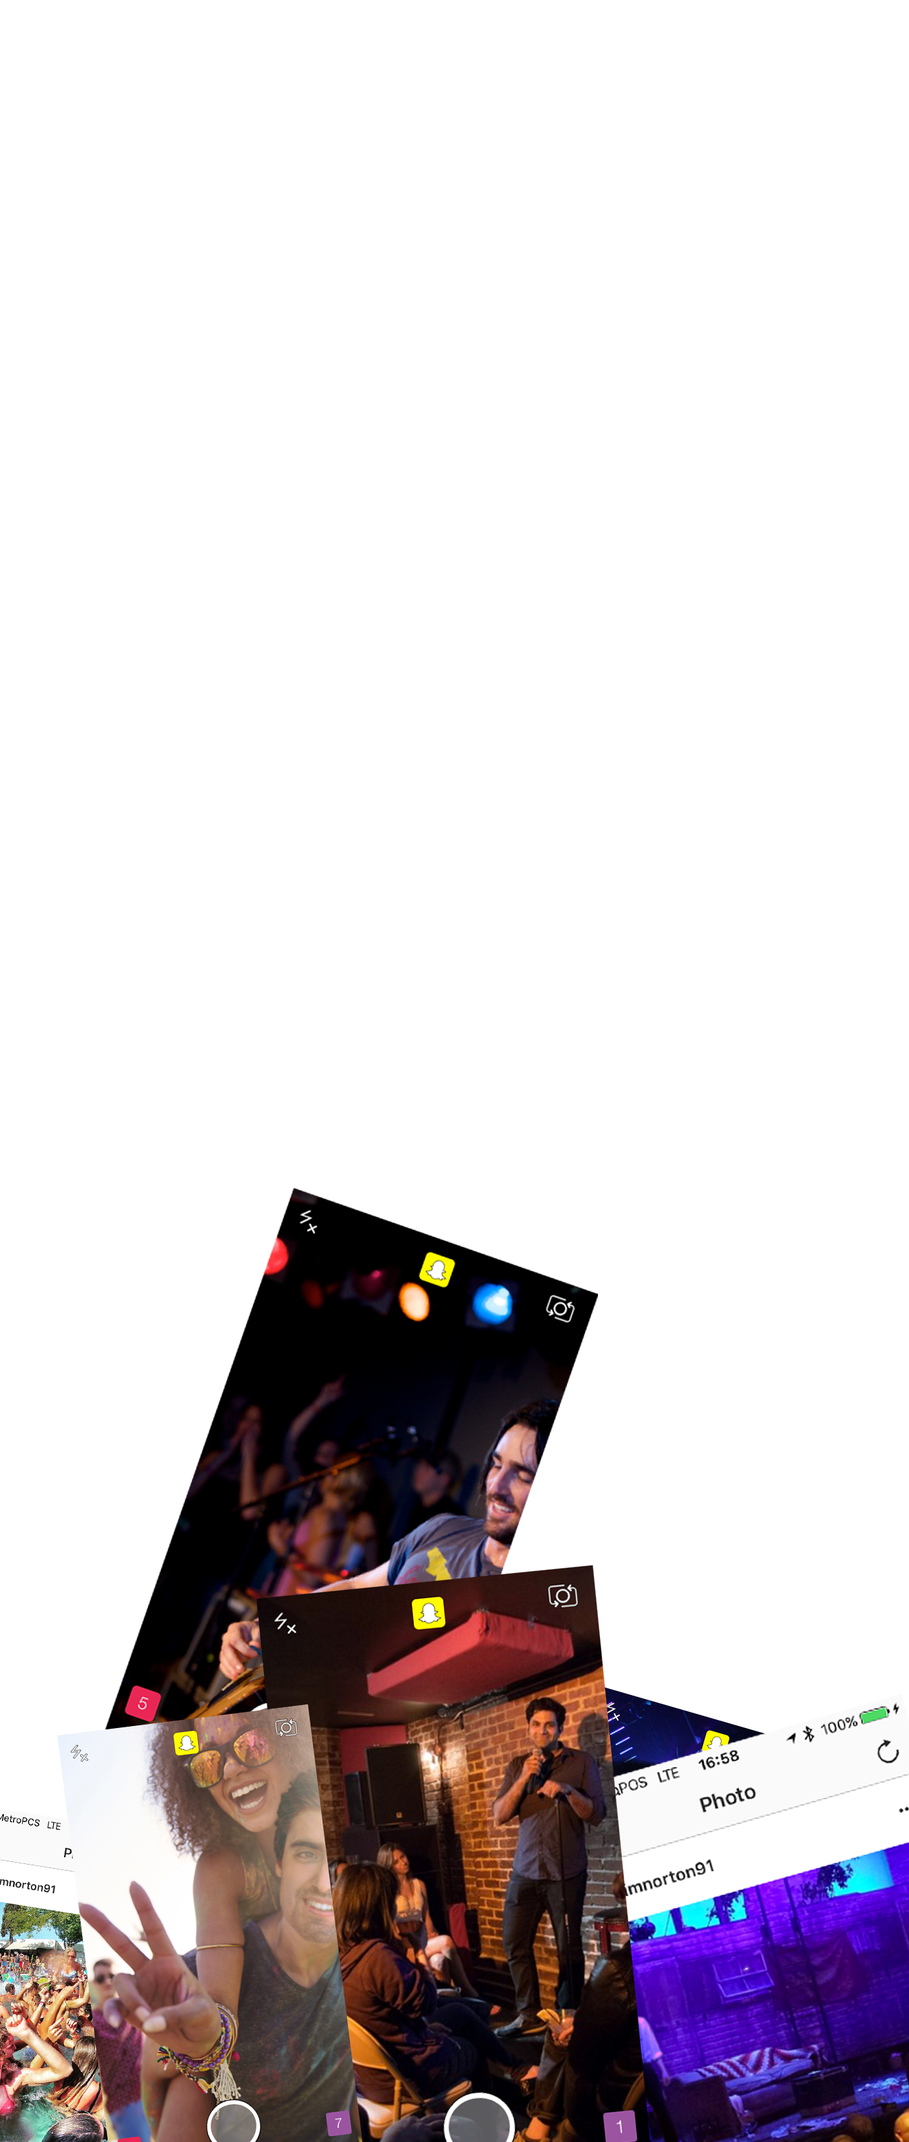
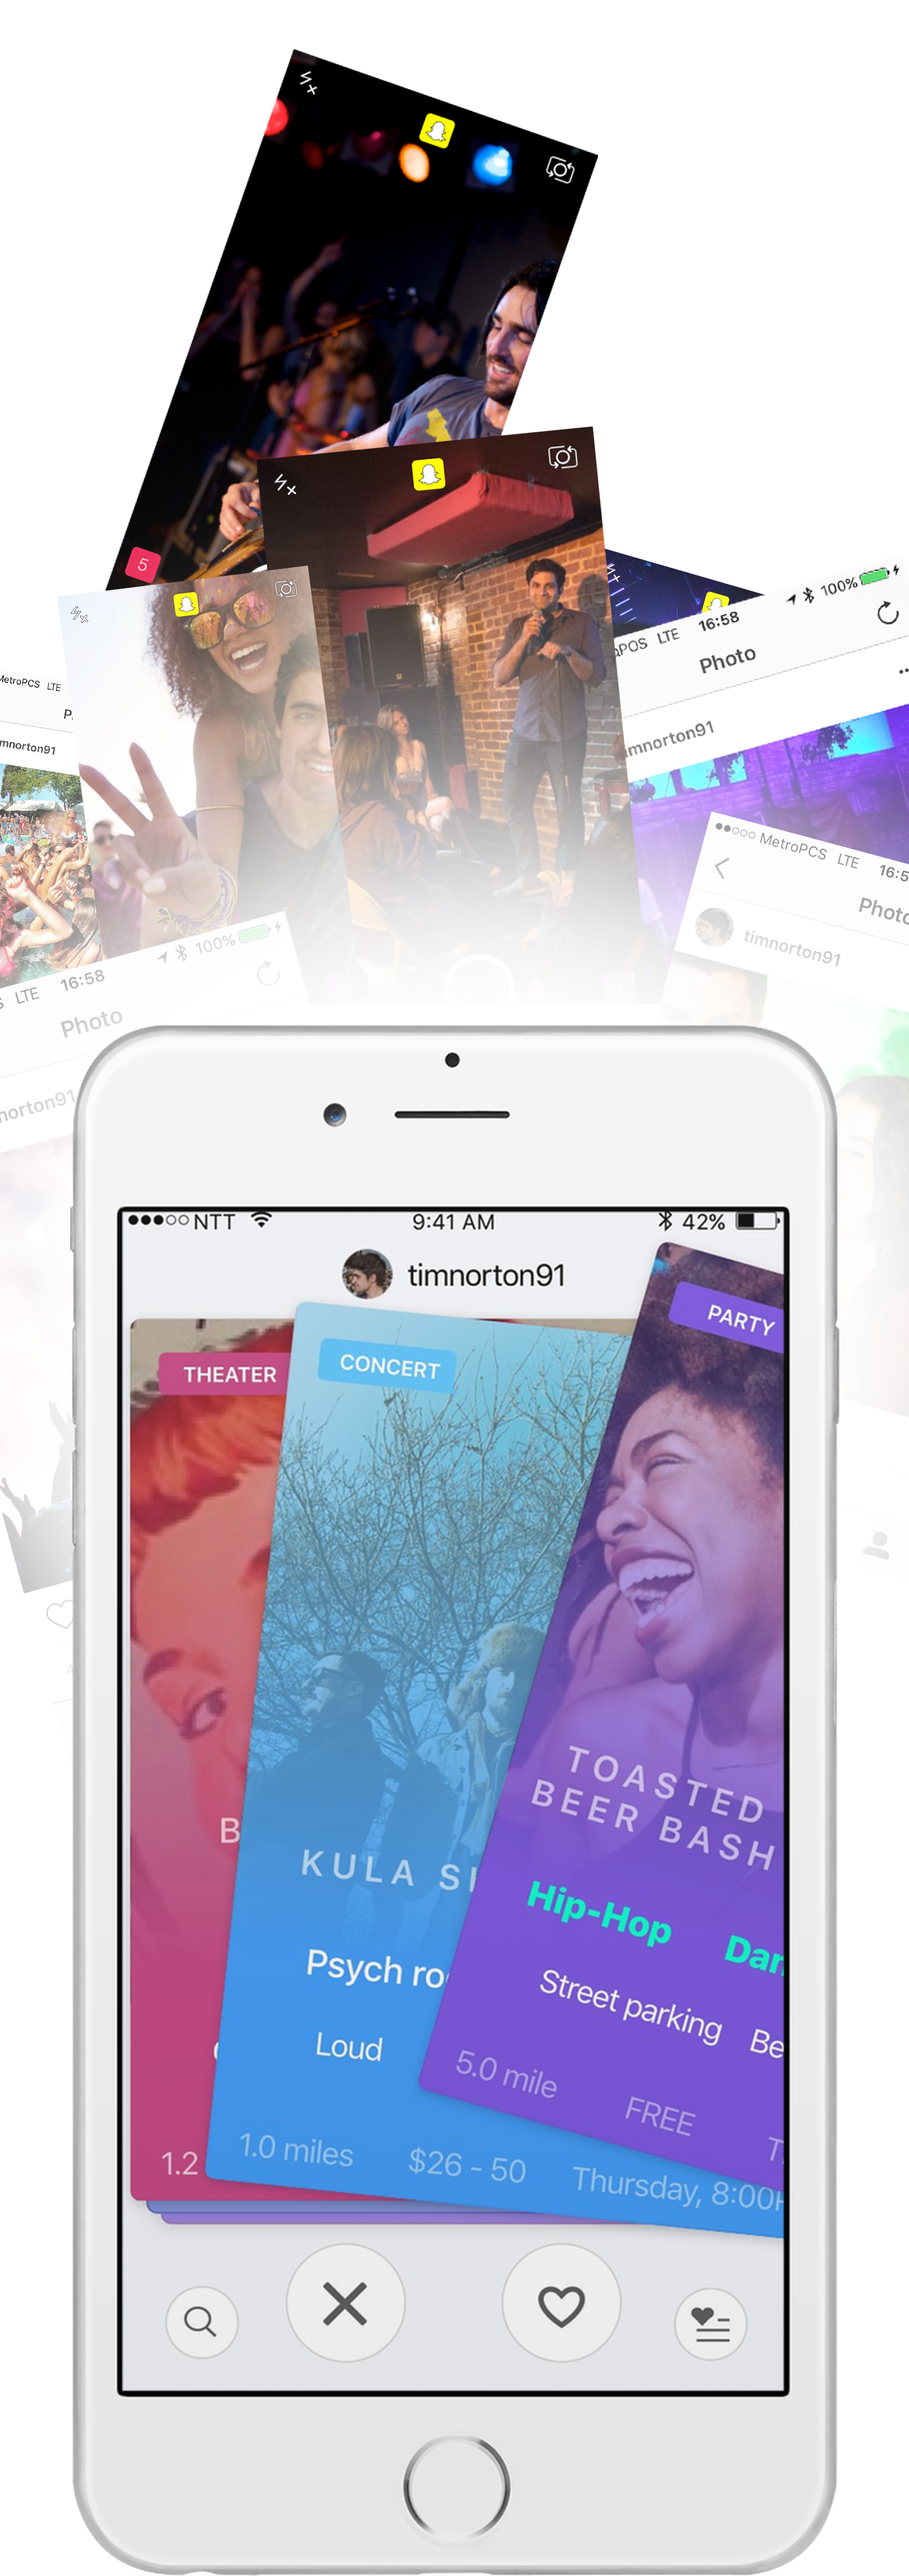
total redesign

diff --git a/css/main.css b/css/main.css
@@ -269,21 +269,6 @@ label {
   top: 0;
 }
 
-.overlay1 {
-  position: absolute;
-  width: 100%;
-  min-height: 100%;
-  background: linear-gradient(to right, rgb(255, 255, 255), rgb(255, 255, 255));
-  top: 0;
-}
-
-.overlay2 {
-  position: absolute;
-  width: 100%;
-  min-height: 100%;
-  background: linear-gradient(to right, rgba(225, 255, 2, 0.8), rgba(225, 255, 2, 0.5));
-  top: 0;
-}
 
 .logo,
 .social { text-align: center; }
@@ -897,6 +882,19 @@ textarea[class="form-control"] { padding: 0.75em 12px; }
    
 @media (max-width: 768px) {
 
+body {
+  font-size: 16px;
+}
+p {
+  font-size: 120%;
+  font-weight: 200;
+}
+
+h1 {
+  font-size: 250%;
+  font-weight: 300;
+}
+
 .hero-unit { padding: 4.5em 0; }
 
 .logo { text-align: justify; }
@@ -950,13 +948,7 @@ ul.countdown li p { font-size: 24px; }
   margin-right: auto;
   width: 50%;
 }
-.hero-unit h1 {
-  font-size: 200%;
-}
 
-.counter1 h2 {
-  font-size: 200%;
-}
 
 .counter1 img {
   width: 130%;
@@ -967,19 +959,14 @@ ul.countdown li p { font-size: 24px; }
   display: none;
 }
 
-.mobile5 {
-  height: 100px;
-  background: center center no-repeat;
-  background: url("../img/mobile_5.png");
-  -webkit-background-size: cover;
-  -moz-background-size: cover;
-  -o-background-size: cover;
-  background-size: cover;
+.mobile5 img {
+  display: block;
+  margin-left: auto;
+  margin-right: auto;
+  width: 100%;
 }
 
-.features h1 {
-  font-size: 230%;
-}
+
 
   #angryd {
     position: absolute;
@@ -1023,6 +1010,11 @@ ul.countdown li p { font-size: 24px; }
   .contact h2 {font-size: 1%}
   .contact h1 {font-size: 1%}
   .contact h3 {font-size: 1%}
+
+  #mobilemob {
+    margin-bottom: 10%;
+    margin-top: 10%;
+  }
 
   #many {
     display: block;
@@ -1072,26 +1064,16 @@ ul.countdown li p { font-size: 24px; }
   }
 
 
-  .overlay1 {
-
-    background: url("../img/mobile_snaps.png") no-repeat center;
-    -webkit-background-size: cover;
-    -moz-background-size: cover;
-    -o-background-size: cover;
-    background-size: cover;
-
-    height: 800px;
-  }
-
 
   .mobile-phone {
-    background: url("../img/mobi.png") bottom center no-repeat;
-    -webkit-background-size: cover;
-    -moz-background-size: cover;
-    -o-background-size: cover;
-    height: 1000px;
-    background-size: 100%;
-    background-color: #f1f2f5;
+    background-color: rgba(255, 255, 255, 0);
+  }
+
+  .mobile-phone img {
+    display: block;
+    margin-left: auto;
+    margin-right: auto;
+    width: 100%;
   }
 
   .ruby {
@@ -1099,24 +1081,13 @@ ul.countdown li p { font-size: 24px; }
     background-size: 10%;
   }
 
-  .counter h1 {
-    font-size: 300%;
-    color: #000000;
-  }
-  .counter p {
-    font-size: 150%;
-    margin-bottom: 1%;
-    font-weight: 300;
+  .counter {
+    display: none;
   }
 
-  .counter h2 {text-shadow: 0px 0px 8px #000000;}
 
-  .counter img {
-    position: absolute;
-    z-index: -1;
-  }
   .cta p {
-    font-size: 150%;
+
     font-weight: 200;
     margin-bottom: 0%;
     font-family: 'Mukta Vaani', sans-serif;
@@ -1127,8 +1098,7 @@ ul.countdown li p { font-size: 24px; }
   }
 
   .ruby h1 {
-    font-weight: 800;
-    font-size: 200%;
+    font-weight: 300;
     font-family: 'Mukta Vaani', sans-serif;
     color: #000000;
   }
@@ -1227,6 +1197,19 @@ ul.countdown li p { font-size: 24px; }
 
 @media (max-width: 320px) {
 
+  body {
+    font-size: 16px;
+  }
+  p {
+    font-size: 120%;
+    font-weight: 200;
+  }
+
+  h1 {
+    font-size: 250%;
+    font-weight: 300;
+  }
+
   .hero-unit { padding: 4.5em 0; }
 
   .logo { text-align: justify; }
@@ -1280,13 +1263,7 @@ ul.countdown li p { font-size: 24px; }
     margin-right: auto;
     width: 50%;
   }
-  .hero-unit h1 {
-    font-size: 200%;
-  }
 
-  .counter1 h2 {
-    font-size: 200%;
-  }
 
   .counter1 img {
     width: 130%;
@@ -1297,19 +1274,14 @@ ul.countdown li p { font-size: 24px; }
     display: none;
   }
 
-  .mobile5 {
-    height: 100px;
-    background: center center no-repeat;
-    background: url("../img/mobile_5.png");
-    -webkit-background-size: cover;
-    -moz-background-size: cover;
-    -o-background-size: cover;
-    background-size: cover;
+  .mobile5 img {
+    display: block;
+    margin-left: auto;
+    margin-right: auto;
+    width: 100%;
   }
 
-  .features h1 {
-    font-size: 230%;
-  }
+
 
   #angryd {
     position: absolute;
@@ -1353,6 +1325,11 @@ ul.countdown li p { font-size: 24px; }
   .contact h2 {font-size: 1%}
   .contact h1 {font-size: 1%}
   .contact h3 {font-size: 1%}
+
+  #mobilemob {
+    margin-bottom: 10%;
+    margin-top: 10%;
+  }
 
   #many {
     display: block;
@@ -1402,26 +1379,16 @@ ul.countdown li p { font-size: 24px; }
   }
 
 
-  .overlay1 {
-
-    background: url("../img/mobile_snaps.png") no-repeat center;
-    -webkit-background-size: cover;
-    -moz-background-size: cover;
-    -o-background-size: cover;
-    background-size: cover;
-
-    height: 800px;
-  }
-
 
   .mobile-phone {
-    background: url("../img/mobi.png") bottom center no-repeat;
-    -webkit-background-size: cover;
-    -moz-background-size: cover;
-    -o-background-size: cover;
-    height: 1000px;
-    background-size: 100%;
-    background-color: #f1f2f5;
+    background-color: rgba(255, 255, 255, 0);
+  }
+
+  .mobile-phone img {
+    display: block;
+    margin-left: auto;
+    margin-right: auto;
+    width: 100%;
   }
 
   .ruby {
@@ -1429,24 +1396,13 @@ ul.countdown li p { font-size: 24px; }
     background-size: 10%;
   }
 
-  .counter h1 {
-    font-size: 300%;
-    color: #000000;
-  }
-  .counter p {
-    font-size: 100%;
-    margin-bottom: 1%;
-    font-weight: 300;
+  .counter {
+    display: none;
   }
 
-  .counter h2 {text-shadow: 0px 0px 8px #000000;}
 
-  .counter img {
-    position: absolute;
-    z-index: -1;
-  }
   .cta p {
-    font-size: 150%;
+
     font-weight: 200;
     margin-bottom: 0%;
     font-family: 'Mukta Vaani', sans-serif;
@@ -1457,8 +1413,7 @@ ul.countdown li p { font-size: 24px; }
   }
 
   .ruby h1 {
-    font-weight: 800;
-    font-size: 200%;
+    font-weight: 300;
     font-family: 'Mukta Vaani', sans-serif;
     color: #000000;
   }
@@ -1466,4 +1421,3 @@ ul.countdown li p { font-size: 24px; }
   .ss div[class^="col-"]:nth-child(2) { padding-bottom: 0; }
 }
 
-}

diff --git a/index.html b/index.html
@@ -60,7 +60,7 @@ mixpanel.init("9967819db081d65c92e5cfcca6886dea");</script>
 
 <!--countdown timer-->
 <div class="mobile5">
-
+ <img src="img/mobile_5.png">
 </div>
 <div class="ss">
 
@@ -96,7 +96,14 @@ mixpanel.init("9967819db081d65c92e5cfcca6886dea");</script>
       </div>
 </div>
 
-<div class="mobile-phone">
+<div class="mobile-phone text-center">
+  <div class="container" id="mobilemob">
+  <h1>Your fun-our goal &#x1f60a;</h1>
+  <p>We think the way we discover events is outdated and just bad. We believe that by setting fun of our users as a goal, using 5 personality traits and
+    Machine Learning we will forever change the way you discover events.
+  </p>
+  </div>
+  <img src="img/mobile_snaps.png">
 
 </div>
 
